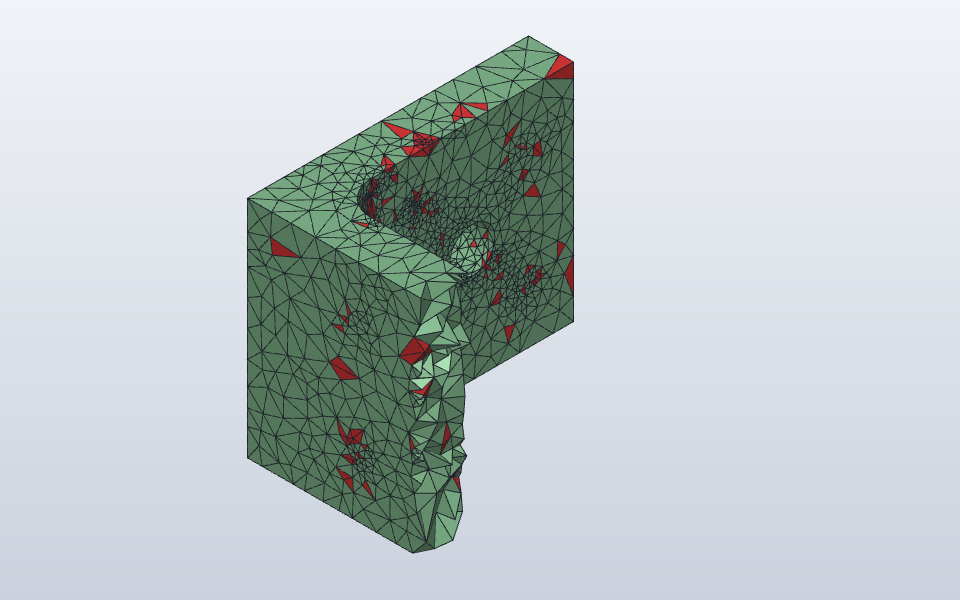
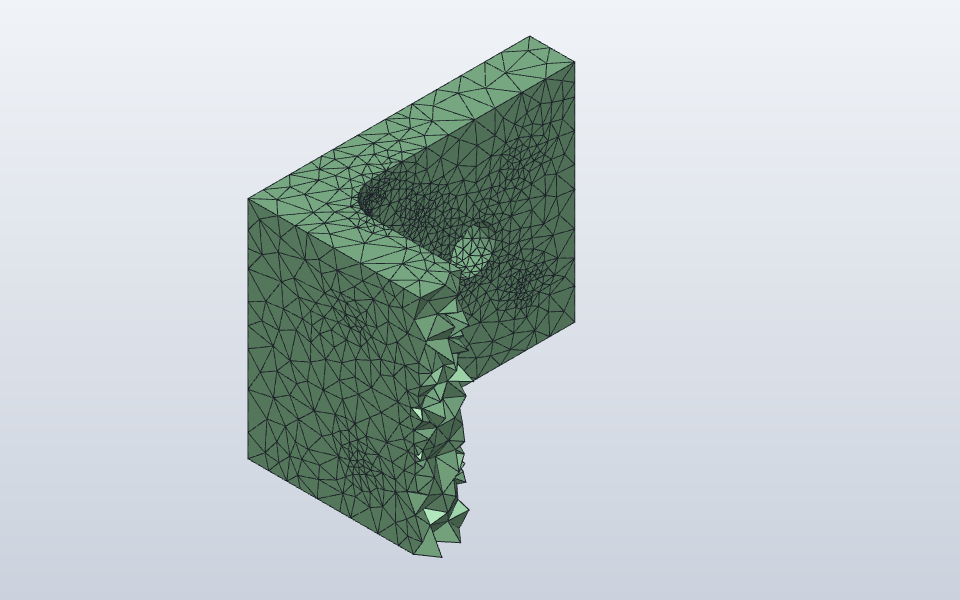
mesh: the tet objective sees needles; no tet below scaled Jacobian 0.3 on the skill's tet parts
The improvement objective was the smallest dihedral sine, which misses
needles: every dihedral angle fine while a corner is nearly flat, so
the corpus meshes had scaled Jacobians down to 0.01-0.07. The objective
is now the smaller of the dihedral sine and the scaled Jacobian at the
worst corner (the measure analysts check, Knupp 2001), weighted so a
Jacobian of 0.3 (the skill's limit) counts as a 30 degree dihedral
angle (the schedule's target): the Jacobian decides only near that
limit. The existing edge removal, multi-face removal, smoothing and
insertion then remove the needles.

Skill tet10 min SJ: sphere-on-plate 0.092 -> 0.335, filleted-bracket
0.021 -> 0.318 (both pass, nothing marked). Default-size tet10:
thin-ribs 0.240, shallow-groove 0.321, rounded-box 0.311.

The strong-relaxation test relaxes below 0.45: nothing is left below
0.3. Literature note in docs/meshing/literature.md.

Claude-Session: https://claude.ai/code/session_01UhhZMBTviDQxZvwnyP89fo

Changed region(s): [[0.25, 0.06, 0.625, 0.93]]

diff --git a/crates/mesh/src/tet/measure.rs b/crates/mesh/src/tet/measure.rs
@@ -74,11 +74,14 @@ pub fn dihedral_cosines(x: &[P; 4]) -> [f64; 6] {
     })
 }
 
-/// The quality objective: the smallest signed dihedral sine (1 is impossible; the regular
-/// tetrahedron scores √(8/9) ≈ 0.943). Positive for a valid tetrahedron, 0 for a flat one,
-/// negative for an inverted one (then the sine of largest magnitude, so worse inversions score
-/// lower). With `sin θ_ij = 6V ℓ_ij / (2A_k · 2A_l)`, the extreme sine is found on squared
-/// lengths and areas, with one square root.
+/// The quality objective of a valid tetrahedron: the smaller of its smallest dihedral sine and
+/// its weighted scaled Jacobian ([`JACOBIAN_WEIGHT`]; the regular tetrahedron scores
+/// √(8/9) ≈ 0.943). The dihedral sine catches slivers and caps; it does not see needles, whose
+/// dihedral angles can all be fine while a corner is nearly flat (Shewchuk 2002), and the scaled
+/// Jacobian `√2 · 6V / (ℓ₁ℓ₂ℓ₃)` at the worst corner, the measure analysts check (the skill's
+/// limit, [`crate::quality`]), does. 0 for a flat tetrahedron; for an inverted one the negative
+/// sine of largest magnitude, so worse inversions score lower. Extremes are found on squared
+/// lengths and areas, with one square root each.
 pub fn quality(x: &[P; 4]) -> f64 {
     let v6 = volume6(x);
     if v6 == 0.0 || !v6.is_finite() {
@@ -95,7 +98,34 @@ pub fn quality(x: &[P; 4]) -> f64 {
         pick = if v6 > 0.0 { pick.min(r) } else { pick.max(r) };
     }
     let q = v6 * pick.sqrt();
+    let q = if v6 > 0.0 { q.min(JACOBIAN_WEIGHT * scaled_jacobian(x, v6)) } else { q };
     if q.is_finite() { q } else { 0.0 }
+}
+
+/// The weight of the scaled Jacobian in [`quality`]: the meshing skill's limit, a scaled
+/// Jacobian of 0.3, counts as much as a 30° dihedral angle (sin 30°, the improvement's target,
+/// [`super::improve::ImproveOptions::target`]), so the Jacobian decides only for tetrahedra near
+/// that limit (needles) and the dihedral sine everywhere else.
+pub const JACOBIAN_WEIGHT: f64 = 0.5 / 0.3;
+
+/// The corners of a tetrahedron and the other three corners of each.
+const CORNERS: [(usize, [usize; 3]); 4] = [(0, [1, 2, 3]), (1, [0, 2, 3]), (2, [0, 1, 3]), (3, [0, 1, 2])];
+
+/// The squared product of the three edge lengths at each corner.
+fn corner_products(x: &[P; 4]) -> [f64; 4] {
+    CORNERS.map(|(c, o)| {
+        o.iter().fold(1.0, |m, &j| {
+            let e = sub(x[j], x[c]);
+            m * dot(e, e)
+        })
+    })
+}
+
+/// The scaled Jacobian at the worst corner of a tetrahedron with six times the volume `v6`
+/// (as [`crate::quality`] reports it).
+fn scaled_jacobian(x: &[P; 4], v6: f64) -> f64 {
+    let worst = corner_products(x).iter().fold(0.0_f64, |m, &p| m.max(p));
+    std::f64::consts::SQRT_2 * v6 / worst.sqrt()
 }
 
 /// The smallest and largest dihedral angle in degrees (reports only).
@@ -219,6 +249,16 @@ mod tests {
         let flat = [[0.0, 0.0, 0.0], [1.0, 0.0, 0.0], [0.0, 1.0, 0.0], [1.0, 1.0, 0.0]];
         assert_eq!(quality(&flat), 0.0);
         assert!(circumcenter(&flat).is_none());
+    }
+
+    /// A needle: every dihedral angle above 20°, yet one corner nearly flat; the objective sees
+    /// it through the scaled Jacobian.
+    #[test]
+    fn a_needle_scores_low() {
+        let x = positive([[0.0, 0.0, 0.0], [1.0, 0.0, 0.0], [0.5, 0.866, 0.0], [0.5, 0.29, 12.0]]);
+        let (lo, hi) = dihedral_range(&x);
+        assert!(lo > 20.0 && hi < 120.0, "{lo} {hi}");
+        assert!(quality(&x) < 0.15 * JACOBIAN_WEIGHT, "{}", quality(&x));
     }
 
     #[test]

diff --git a/crates/testkit/src/skill.rs b/crates/testkit/src/skill.rs
@@ -53,10 +53,6 @@ const PLAIN_CUP: &str = r#"[
 /// Shown only while the part fails.
 const CAUSES: &[(&str, &str)] = &[
     (
-        "filleted-bracket",
-        "no structured method takes the whole body (the plan has no cuts for the fillet beside the holes), and tet10 at the plan's size leaves slivers (min SJ 0.04, 1709 marked). The same part partitioned into mapped cells (`filleted-bracket-blocks`) passes: partition (§3.4).",
-    ),
-    (
         "loft-transition",
         "the lofted sides are swept one to one, and the elements where the section changes shape are skewed (min SJ 0.19). Relaxing the four marked elements did not raise it: the blocks are wrong, not the nodes (§6.3). A loft has no template yet (`unmapped`).",
     ),
@@ -64,7 +60,6 @@ const CAUSES: &[(&str, &str)] = &[
         "sharp-wedge",
         "the wedge's sharp edge is swept as hex, so every element tapers to it (min SJ 0.01, edge ratio 150). A column of wedge6 at the edge (§4) raises the SJ but not the ratio: any element with a corner on a 2.9° edge has sides at least 1/tan 2.9° ≈ 20 times its width there, twice the limit. The edge has to be blunted (defeatured) or the limit waived along it.",
     ),
-    ("sphere-on-plate", "no structured method takes the plate with the sunk sphere, and tet10 leaves slivers (min SJ 0.12, 662 marked)."),
     (
         "analytic-sphere",
         "no structured method takes a sphere (it has no face to sweep from or axis to revolve about), so the plan does not apply and the fallback's sphere template meshes it at the plan's size (2.45 mm, which keeps a sphere's chords to 0.75 % on paper), 1.1 % short of the volume: the template's elements at the cube's eight corners span more of the sphere than the size. A sphere template in the plan (§3) would size its caps; hex20 (`order: 2`) closes it too.",

diff --git a/crates/mesh/src/tet/tests.rs b/crates/mesh/src/tet/tests.rs
@@ -433,7 +433,17 @@ mod determinism {
         let (p, t, f) = washer();
         let m = mesh(&p, &t, &f);
         assert!(m.elements.len() > 100, "{:?}", m.report);
-        assert_eq!(fingerprint(&m), 6_285_915_972_108_509_003, "{} tets, {} nodes", m.elements.len(), m.points.len());
+        // No needles either: the scaled Jacobian analysts check is above the skill's limit.
+        let sj = m
+            .elements
+            .iter()
+            .map(|e| {
+                let xyz: Vec<[f64; 3]> = e.iter().map(|&v| m.points[v as usize]).collect();
+                crate::quality::element_quality(m.kind, &xyz).unwrap().get(crate::quality::Metric::ScaledJacobian).unwrap()
+            })
+            .fold(f64::INFINITY, f64::min);
+        assert!(sj >= 0.3, "min scaled Jacobian {sj}");
+        assert_eq!(fingerprint(&m), 11_252_377_805_886_396_373, "{} tets, {} nodes", m.elements.len(), m.points.len());
     }
 
     /// Listing the triangles, their corners and the vertices in another order, and numbering

diff --git a/crates/engine/src/cmd/relax/tests.rs b/crates/engine/src/cmd/relax/tests.rs
@@ -275,7 +275,8 @@ fn on_box_edge(p: [f64; 3]) -> bool {
 fn strong_relaxation_of_a_filleted_box_keeps_faces_and_edges() {
     let (_d, mut s, _) = filleted_box();
     let before = s.model.clone();
-    let r = s.execute("mesh.node.relax", &json!({"mode": "strong", "bodies": ["B"], "below": 0.3})).unwrap();
+    // The tet mesher leaves no element below the skill's 0.3, so relax those below 0.45.
+    let r = s.execute("mesh.node.relax", &json!({"mode": "strong", "bodies": ["B"], "below": 0.45})).unwrap();
     let (b, a) = (&r["before"], &r["after"]);
     // The worst tets may not improve: their corners can all be held on the box's edges.
     assert!(a["min_scaled_jacobian"].as_f64().unwrap() >= b["min_scaled_jacobian"].as_f64().unwrap(), "{r}");

diff --git a/docs/meshing/skill-results.md b/docs/meshing/skill-results.md
@@ -31,7 +31,7 @@ Times are wall clock on the machine that ran it.
 | bolted-assembly | plan (sweep), mesh.hex.generate (auto) | – | 6272 (6272 hex8) | 0.583 | 0.939 | 3.6 | 2.0e-4 | 0 | 0 (not relaxed) | 8 coincident, 0 cracks | – | 3.7 | pass | [x=50.000](skill/bolted-assembly.png) |
 | cantilever-i-beam | plan (sweep) | – | 61600 (61600 hex8) | 1.000 | 1.000 | 1.0 | 0.0e0 | 0 | 0 (not relaxed) | none | – | 8.5 | pass | [x=100.000](skill/cantilever-i-beam.png) |
 | cross-cylinders | none | – | – | – | – | – | – | – | – | – | – | 27.2 | no mesh | – |
-| filleted-bracket | tet10 | – | 21525 (21525 tet10) | 0.021 | 0.535 | 13.5 | -7.0e-6 | 0 | 1492 (not relaxed) | none | – | 15.9 | fail (SJ, ratio) | [x=30.000](skill/filleted-bracket.png) |
+| filleted-bracket | tet10 | – | 19991 (19991 tet10) | 0.318 | 0.564 | 4.1 | -6.8e-6 | 0 | 0 (not relaxed) | none | – | 15.1 | pass (fallback) | [x=30.000](skill/filleted-bracket.png) |
 | filleted-bracket-blocks | plan (sweep) | – | 75410 (75410 hex8) | 0.704 | 0.954 | 3.5 | 3.7e-5 | 0 | 0 (not relaxed) | none (after merging 2348 nodes) | – | 6.9 | pass | [x=30.000](skill/filleted-bracket-blocks.png) |
 | i-beam | plan (sweep) | – | 61600 (61600 hex8) | 1.000 | 1.000 | 1.0 | 0.0e0 | 0 | 0 (not relaxed) | none | – | 4.5 | pass | [z=100.000](skill/i-beam.png) |
 | loft-transition | plan (sweep) | – | 2873 (2873 hex8) | 0.189 | 0.959 | 1.7 | -2.1e-3 | 0 | 4 → 4 (4 relaxed, 0 undone; min SJ 0.189 → 0.189, max ratio 1.7 → 1.7) | none | – | 0.9 | fail (SJ) | [z=25.000](skill/loft-transition.png) |
@@ -40,7 +40,7 @@ Times are wall clock on the machine that ran it.
 | rounded-box | plan (project) | 2 plane(s) | 11520 (11520 hex8) | 0.717 | 0.973 | 4.0 | -4.1e-3 | 0 | 0 (not relaxed) | none | – | 8.7 | pass | [x=20.000](skill/rounded-box.png) |
 | shallow-groove | plan (sweep) | – | 1960 (1960 hex8) | 0.991 | 0.999 | 1.1 | 2.7e-4 | 0 | 0 (not relaxed) | none | – | 0.2 | pass | [x=30.000](skill/shallow-groove.png) |
 | sharp-wedge | plan (sweep) | – | 1674 (1674 hex8) | 0.014 | 0.301 | 149.6 | 2.7e-15 | 0 | 1524 (not relaxed) | none | – | 0.2 | fail (SJ, ratio) | [x=40.000](skill/sharp-wedge.png) |
-| sphere-on-plate | tet10 | – | 23799 (23799 tet10) | 0.092 | 0.587 | 5.9 | -8.7e-5 | 0 | 679 (not relaxed) | none | – | 13.7 | fail (SJ) | [y=0.000](skill/sphere-on-plate.png) |
+| sphere-on-plate | tet10 | – | 25613 (25613 tet10) | 0.335 | 0.607 | 4.4 | -8.8e-5 | 0 | 0 (not relaxed) | none | – | 7.7 | pass (fallback) | [y=0.000](skill/sphere-on-plate.png) |
 | spline-vase | plan (sweep) | – | 4536 (4536 hex8) | 0.665 | 0.945 | 9.9 | -6.6e-3 | 0 | 0 (not relaxed) | none | – | 2.3 | pass | [z=-35.000](skill/spline-vase.png) |
 | stepped-block | plan (cells) | – | 1416 (1416 hex8) | 1.000 | 1.000 | 1.3 | -4.8e-15 | 0 | 0 (not relaxed) | none | – | 1.6 | pass | [x=30.000](skill/stepped-block.png) |
 | thin-ribs | plan (sweep) | – | 301308 (301308 hex8) | 0.999 | 1.000 | 1.3 | -3.4e-12 | 0 | 0 (not relaxed) | none | – | 34.7 | pass | [x=50.000](skill/thin-ribs.png) |
@@ -75,7 +75,6 @@ limits the cause read from its numbers and section picture.
   - Bracket: mesh.plan.apply: mesh plan `Plan-Bracket`: the cells ["Bracket"] (cuts []) do not mesh all-hex: body `Bracket`: not supported yet: no structured hex method fits this body (extrude: cylindrical face 8 is not parallel to the direction; sweep: from face 1: lin…
   - Bracket: mesh.hex.generate: body `Bracket`: not supported yet: no structured hex method fits this body (extrude: cylindrical face 8 is not parallel to the direction; sweep: from face 1: linking face 6 has 2 boundary loops (periodic or holed linking faces are not swept…
   - Bracket: mesh.hex.project (sphere): body `Bracket`: meshing failed: 91 of 5104 elements are inverted, twisted or degenerate after projection (certified Jacobian; smallest corner scaled Jacobian -0.760): block 1 cell [3, 3, 0] near (12.519, 11.405, 1.604); block 1 cell [3, 4, …
-  - **fail (SJ, ratio)**: no structured method takes the whole body (the plan has no cuts for the fillet beside the holes), and tet10 at the plan's size leaves slivers (min SJ 0.04, 1709 marked). The same part partitioned into mapped cells (`filleted-bracket-blocks`) passes: partition (§3.4).
 - `loft-transition` (corpus: A 40 mm square lofted to an R15 circle 50 mm above: a ruled free-form surface between unlike sections.):
   - **fail (SJ)**: the lofted sides are swept one to one, and the elements where the section changes shape are skewed (min SJ 0.19). Relaxing the four marked elements did not raise it: the blocks are wrong, not the nodes (§6.3). A loft has no template yet (`unmapped`).
 - `sharp-wedge` (corpus: A wedge whose faces meet at under 3 degrees: a sharp edge with a needle-thin cross-section.):
@@ -84,7 +83,6 @@ limits the cause read from its numbers and section picture.
   - Plate: mesh.plan.apply: mesh plan `Plan-Plate`: the cells ["Plate"] (cuts []) do not mesh all-hex: body `Plate`: not supported yet: no structured hex method fits this body (extrude: face 6 is curved across the direction; sweep: from face 0: 6 faces are not on the …
   - Plate: mesh.hex.generate: body `Plate`: not supported yet: no structured hex method fits this body (extrude: face 6 is curved across the direction; sweep: from face 0: 6 faces are not on the sweep path; from face 5: linking face 11 has 2 boundary loops (periodic or …
   - Plate: mesh.hex.project (sphere): body `Plate`: meshing failed: the mesh volume 32917.42909007507 is far from the body's 69353.30815403847: the blocks do not cover the part (every outer block face must stand for part of its surface)
-  - **fail (SJ)**: no structured method takes the plate with the sunk sphere, and tet10 leaves slivers (min SJ 0.12, 662 marked).
 - `analytic-sphere` (corpus: Sphere r 20: curvature everywhere, no edges.):
   - Sphere: mesh.plan.apply: mesh plan `Plan-Sphere`: the cells ["Sphere"] (cuts []) do not mesh all-hex: body `Sphere`: not supported yet: no structured hex method fits this body (extrude: no direction to try; sweep: no planar face to sweep from; revolve: no axis to t…
   - Sphere: mesh.hex.generate: body `Sphere`: not supported yet: no structured hex method fits this body (extrude: no direction to try; sweep: no planar face to sweep from; revolve: no axis to try; mapped: meshing failed: meshing failed: mesh validity gate: 8 inverted or…

diff --git a/docs/meshing/literature.md b/docs/meshing/literature.md
@@ -402,7 +402,10 @@ Delaunay methods with Voronoi/ODT improvement, then (2) all-hex and hex-dominant
   (barycentres of boundary faces, of the tetrahedron, midpoints of boundary edges, and a point inside off a flat
   boundary edge). Deviations: the inserted vertex takes the Delaunay cavity rather than the optimal cut of §3.4; each pass
   smooths and flips the tetrahedra below sin 40° and inserts only when the worst did not improve; passes and the
-  insertion list are capped. Objective: the minimum dihedral sine. Every operation is a checked replacement of a region
+  insertion list are capped. Objective: the smaller of the minimum dihedral sine and the scaled Jacobian at the worst
+  corner weighted so that a Jacobian of 0.3 counts as a 30° dihedral angle: the sine misses needles (every dihedral
+  angle fine, one corner nearly flat; Shewchuk 2002); the scaled Jacobian analysts check (Knupp 2001, B6.6) catches
+  them, and with the weight it decides only near that limit. Every operation is a checked replacement of a region
   (positive by exact `orient3d`, faces matched with opposite orientation, removed vertices fully inside), so the mesh is
   valid after each step.
 
